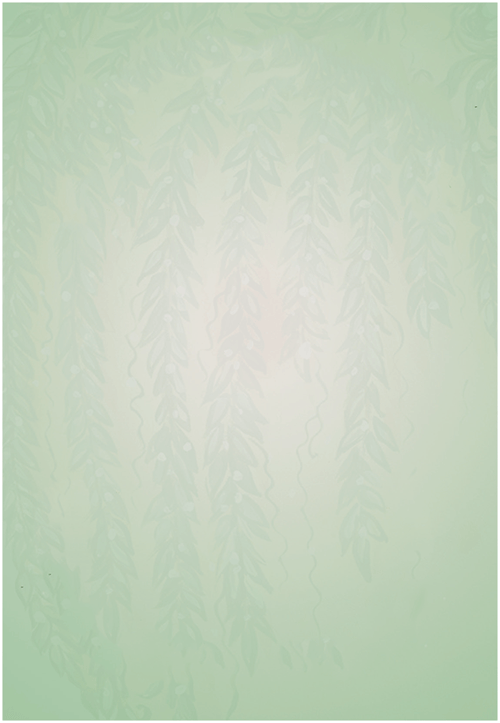
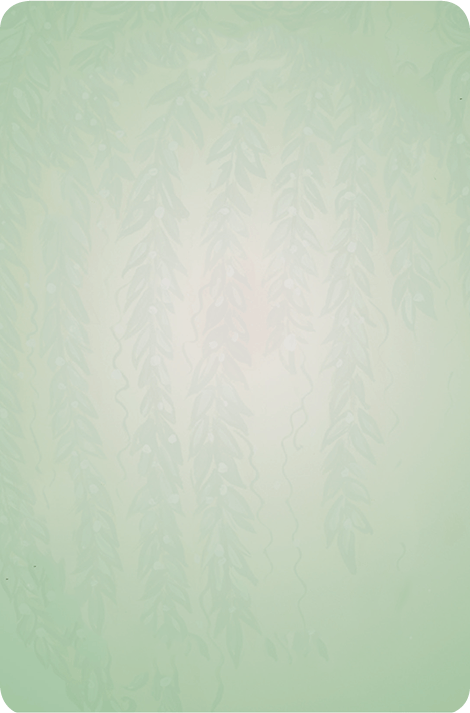
updated behind card image

Changed region(s): [[0.0, 0.0, 1.0, 1.0]]

diff --git a/lib/card-screen.dart b/lib/card-screen.dart
@@ -154,46 +154,39 @@ class _MyCard extends State<MyCard> {
                                     top: MediaQuery.of(context).size.height /
                                         50),
                                 height: getHeight(), 
-                                width:
-                                    (((MediaQuery.of(context).size.height / 4) *
-                                            3) *
-                                        0.65),
-                                decoration: BoxDecoration(
-                                    borderRadius:
-                                        BorderRadius.all(Radius.circular(18)),
-                                    image: DecorationImage(
-                                      fit: BoxFit.cover,
-                                      image: AssetImage(
-                                          'assets/images/noleaves2.png'),
-                                    )),
+                                width: 
+                                    (((MediaQuery.of(context).size.height *.4875))),
+                                // decoration: BoxDecoration(
+                                //     // borderRadius:
+                                //     //     BorderRadius.all(Radius.circular(18)),
+                                //     image: DecorationImage(
+                                //       fit: BoxFit.cover,
+                                //       image: AssetImage(
+                                //           'assets/images/noleaves2.png'),
+                                //     )),
                                 child: Center(
                                     child: Stack(children: <Widget>[
                                   Container(
-                                      padding: EdgeInsets.only(top: 1),
+                                      // padding: EdgeInsets.only(top: 1),
+                                      alignment: Alignment.center,
                                       child: Image.asset(
-                                        'assets/images/cardBlanknew.png',
-                                        height: (MediaQuery.of(context)
-                                                    .size
-                                                    .height /
-                                                4) *
-                                            3,
-                                        width: ((MediaQuery.of(context)
-                                                        .size
-                                                        .height /
-                                                    4) *
-                                                3) *
-                                            0.65,
+                                        
+                                        'assets/images/filledBlank.png',
+                                        fit: BoxFit.fitWidth,
+                                        // height: (MediaQuery.of(context)
+                                        //             .size
+                                        //             .height /
+                                        //         4) *
+                                        //     3,
+                                        // width: ((MediaQuery.of(context)
+                                        //                 .size
+                                        //                 .height /
+                                        //             4) *
+                                        //         3),
                                       )),
                                   Center(
                                       child: Container(
-                                          // decoration: BoxDecoration(
-                                          //   border: Border.all(color: Colors.black)
-                                          // ),
-                                          // decoration: BoxDecoration(
-                                          //     image: DecorationImage(
-                                          //   image: AssetImage(
-                                          //       'assets/images/cardblank.png'),
-                                          // )),
+                                        
                                           width: ((MediaQuery.of(context)
                                                         .size
                                                         .height /
@@ -358,7 +351,7 @@ class _MyCard extends State<MyCard> {
   }
 
   getHeight() {
-    debugPrint(MediaQuery.of(context).size.height.toString()); 
+    // debugPrint(MediaQuery.of(context).size.height.toString()); 
     if(MediaQuery.of(context).size.height >= 812){
       return ((MediaQuery.of(context).size.height / 4) * 3) - 35;}
   
@@ -366,13 +359,13 @@ class _MyCard extends State<MyCard> {
     return ((MediaQuery.of(context).size.height / 4) * 3) - 10;}
   }
 
-    getWidth() {
-    debugPrint(MediaQuery.of(context).size.height.toString()); 
+    double getWidth() {
+      double height = ((MediaQuery.of(context).size.height / 4) * 3) - 10;
+    // debugPrint(MediaQuery.of(context).size.width.toString()); 
     if(MediaQuery.of(context).size.height >= 812){
-      return ((MediaQuery.of(context).size.height / 4) * 3) - 35;}
+      height = ((MediaQuery.of(context).size.height / 4) * 3) - 35;}
   
-    else{
-    return ((MediaQuery.of(context).size.height / 4) * 3) - 10;}
+    return height; 
   }
 
   // double getFontSize(){

diff --git a/lib/collection-screen.dart b/lib/collection-screen.dart
@@ -19,7 +19,7 @@ class _Collection extends State<Collection> {
   bool creations = false;
   bool firstrun = true;
   bool _front = true;
-  String cardImage = 'assets/images/cardblank.png';
+  String cardImage = 'assets/images/filledBlank.png';
   String creationsText = "My Creations";
   IconData ic = Icons.flip_to_back;
   bool visible = true;
@@ -57,7 +57,7 @@ class _Collection extends State<Collection> {
   void toggleFlip() {
     _front = !_front;
     if (_front) {
-      cardImage = 'assets/images/cardBlanknew.png';
+      cardImage = 'assets/images/filledBlank.png';
       ic = Icons.flip_to_back;
     } else {
       bool pref = CardClass.getPreference();
@@ -296,13 +296,14 @@ class _Collection extends State<Collection> {
   }
 
   double getHeight() {
+    double height = (MediaQuery.of(context).size.height / 7);
     if (MediaQuery.of(context).size.height > 700) {
-      return ((MediaQuery.of(context).size.height / 6));
+      height = ((MediaQuery.of(context).size.height / 6));
     }
     if (MediaQuery.of(context).size.height > 1000) {
-      return ((MediaQuery.of(context).size.height / 4));
+      height = ((MediaQuery.of(context).size.height / 4));
     }
-    return ((MediaQuery.of(context).size.height / 7));
+    return height;
   }
 
   double getFontSize() {
@@ -311,10 +312,10 @@ class _Collection extends State<Collection> {
       fontsize= ((MediaQuery.of(context).size.height) / 90);
     }
     if (MediaQuery.of(context).size.height >= 896) {
-      fontsize = ((MediaQuery.of(context).size.height) / 70);
+      fontsize = ((MediaQuery.of(context).size.height) / 90);
     }
-    if (MediaQuery.of(context).size.height > 1000) {
-      fontsize = ((MediaQuery.of(context).size.height) / 65);
+    if (MediaQuery.of(context).size.height >= 1000) {
+      fontsize = ((MediaQuery.of(context).size.height) / 60);
     }
     if (MediaQuery.of(context).size.height > 1200) {
       fontsize = ((MediaQuery.of(context).size.height) / 54);

diff --git a/lib/instructions.dart b/lib/instructions.dart
@@ -103,7 +103,7 @@ class _InstructionScreen extends State<InstructionScreen> {
                                           // minFontSize: 12,
                                           // maxFontSize: 40,
                                           style: TextStyle(
-                                              fontSize: (MediaQuery.of(context).size.height)/35, height: 1.1, color: Color(0xff41311F)),
+                                              fontSize: getFontSize(), height: 1.1, color: Color(0xff41311F)),
                                           textAlign: TextAlign.center))))
                         )])),
                       ]);
@@ -127,5 +127,13 @@ class _InstructionScreen extends State<InstructionScreen> {
     if (position >= totalDots) return 0;
     if (position < 0) return totalDots - 1;
     return position;
+  }
+
+  double getFontSize(){
+    double fontsize = (MediaQuery.of(context).size.height)/35; 
+    if(MediaQuery.of(context).size.height > 800){
+      fontsize = (MediaQuery.of(context).size.height)/40; 
+    }
+    return fontsize; 
   }
 }

diff --git a/lib/custom-affirmation.dart b/lib/custom-affirmation.dart
@@ -85,7 +85,7 @@ class _CustomAffirmationState extends State<CustomAffirmation> {
           // in the middle of the parent.
           child:
               Stack(alignment: AlignmentDirectional.center, children: <Widget>[
-            Image.asset('assets/images/cardblank.png'),
+            Image.asset('assets/images/cardBlanknew.png'),
             // Padding(
             //     padding: EdgeInsets.all(30),
             //     child:
